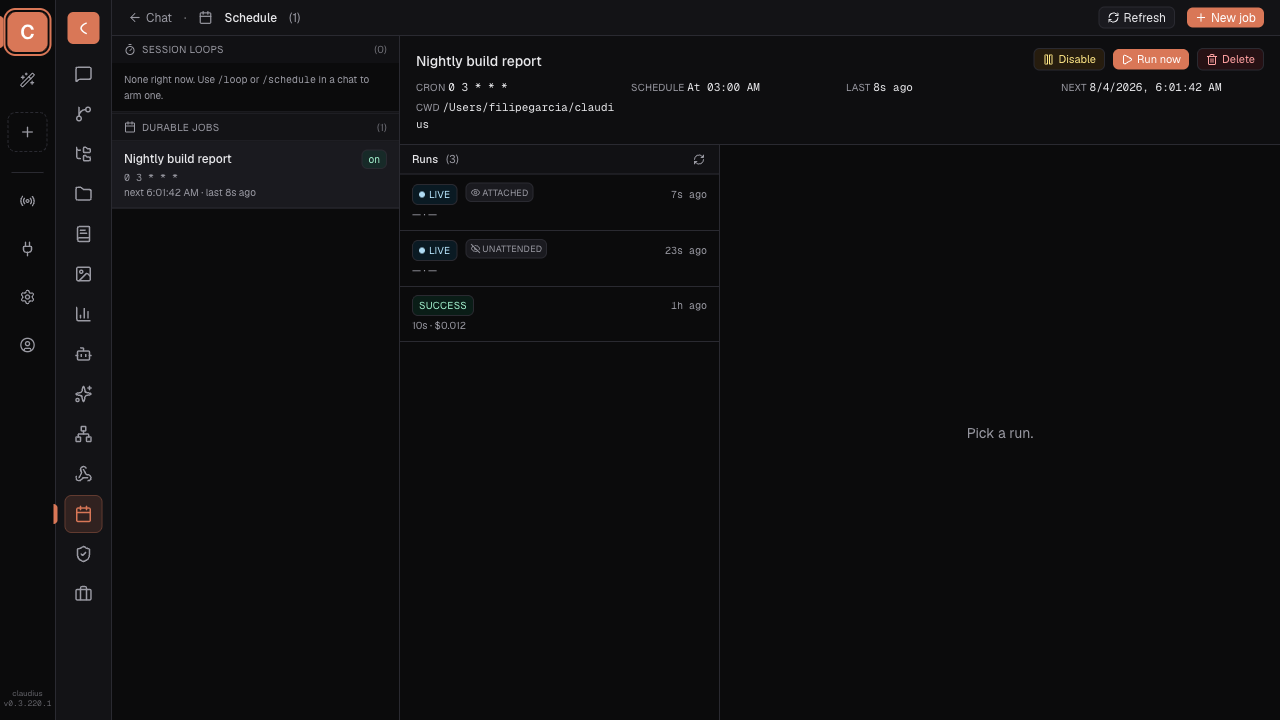
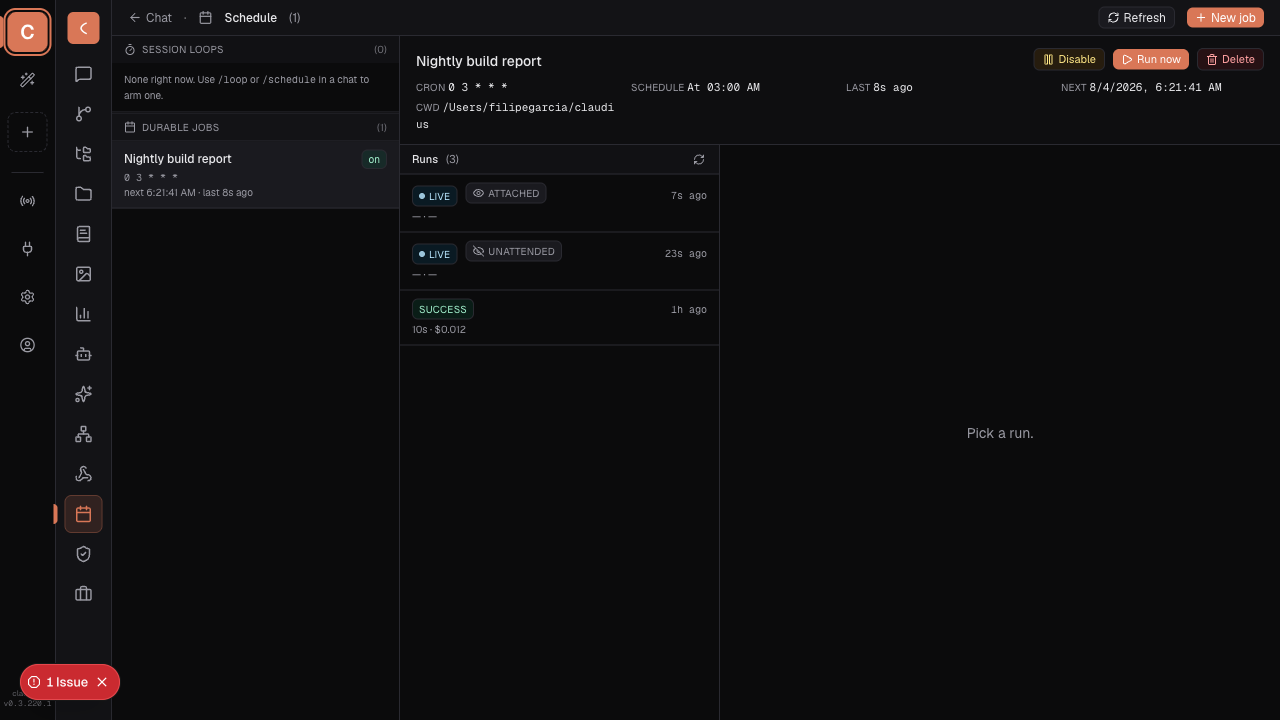
fix(cc-parity): apply adversarial UX review to 2.1.221 bucket-B items
Two independent skeptic passes on the just-shipped scheduler-attached
chip and emoji alias table:

- Emoji: drop the thumbs_up/thumbs_down aliases for already-canonical
  thumbsup/thumbsdown — filterEmojiShortcodes has no de-dup pass, so
  ":thumbs" would've surfaced two rows per emoji. Keep only love→heart,
  which the changelog actually needed.
- Schedule: drop the run-detail "Kind" stat — it was self-referential
  (opening the pane is what makes a run "attached"), so it briefly read
  "unattended" while you're looking straight at it. Keep the
  attached/unattended signal only in the runs-list chip, where another
  tab's attachment is real information. Also fixed the chip's sizing to
  match the adjacent "Live" pill's weight.

Updates the run-notes and both specs/screenshots to match.

diff --git a/app/[workspaceId]/schedule/page.tsx b/app/[workspaceId]/schedule/page.tsx
@@ -589,9 +589,9 @@ function JobDetail({
                                 ? "Attached — a tab has this run's live stream open"
                                 : "Unattended — running with no live viewer"
                             }
-                            className="flex shrink-0 items-center gap-0.5 rounded-md border border-[var(--border)] bg-[var(--panel-2)] px-1 py-0.5 text-[9px] uppercase tracking-wide text-[var(--muted)]"
+                            className="flex shrink-0 items-center gap-1 rounded-md border border-[var(--border)] bg-[var(--panel-2)] px-1.5 py-0.5 text-[10px] uppercase tracking-wide text-[var(--muted)]"
                           >
-                            {r.attached ? <Eye className="h-2.5 w-2.5" /> : <EyeOff className="h-2.5 w-2.5" />}
+                            {r.attached ? <Eye className="h-3 w-3" /> : <EyeOff className="h-3 w-3" />}
                             {r.attached ? "attached" : "unattended"}
                           </span>
                         )}
@@ -690,13 +690,20 @@ function RunTranscript({
   const transcript = run.status === "running" ? liveEvents : (run.transcript ?? []);
   return (
     <div className="space-y-2 px-4 py-4 text-xs">
+      {/*
+        Deliberately NOT repeating the attached/unattended chip here as a
+        "Kind" stat: opening this transcript is itself what makes a run
+        "attached" (it mounts the live EventSource below), so a stat in this
+        exact pane would read as self-referential/paradoxical — "unattended"
+        while you're looking straight at it, correcting itself only on the
+        next 2s runs-list poll. The runs-list chip (where a genuinely
+        *other* tab's attachment is real information) is the right home for
+        this; see the adversarial UX review in the 2.1.221 run-notes.
+      */}
       <div className="flex flex-wrap gap-3 border-b border-[var(--border)] pb-2">
         <Stat label="Started" value={new Date(run.startedAt).toLocaleString()} />
         {run.endedAt && <Stat label="Ended" value={new Date(run.endedAt).toLocaleString()} />}
         <Stat label="Status" value={run.status} />
-        {run.status === "running" && (
-          <Stat label="Kind" value={run.attached ? "background · attached" : "background · unattended"} />
-        )}
         {run.costUsd != null && <Stat label="Cost" value={fmtUsd(run.costUsd)} />}
         {typeof run.inputTokens === "number" && (
           <Stat label="In tok" value={run.inputTokens.toLocaleString()} />

diff --git a/tests/e2e/cc-parity-2.1.221-schedule-run-attached.spec.ts b/tests/e2e/cc-parity-2.1.221-schedule-run-attached.spec.ts
@@ -14,8 +14,10 @@
  * states without spinning up a real SDK run, and asserts:
  *   1. the runs list shows an "attached" chip for a live run with a
  *      watcher, and an "unattended" chip for one with none,
- *   2. opening the unattended run's transcript shows "background ·
- *      unattended" in its stat row.
+ *   2. opening a run's transcript does NOT repeat that signal as a stat —
+ *      an adversarial UX review flagged the original "Kind" stat as
+ *      self-referential (opening the pane is what makes a run "attached"),
+ *      so the chip only lives in the runs list.
  *
  * Screenshot target: docs/cc-parity/2.1.221/schedule-run-attached.png
  */
@@ -114,12 +116,16 @@ test.describe("CC 2.1.221 — Schedule run kind: attached vs unattended", () => 
     await page.waitForTimeout(150);
     await page.screenshot({ path: resolve(SHOTS_DIR, "schedule-run-attached.png"), fullPage: false });
 
-    // Open the unattended run's detail and confirm the stat row agrees.
+    // Open the unattended run's detail pane. The attached/unattended signal
+    // is deliberately NOT repeated here as a stat: opening this very pane is
+    // what makes a run "attached" (it mounts the live stream), so restating
+    // it in the pane you're looking through would be self-referential. Only
+    // the runs-list chip (where a genuinely *other* tab's attachment is real
+    // information) shows it — see the "Kind" removal note in
+    // RunTranscript's JSDoc.
     await page.getByText(/unattended/i).first().click();
-    await expect(page.getByText("background · unattended")).toBeVisible();
-
-    // Switch to the attached run and confirm the stat row flips too.
-    await page.getByText(/attached/i).first().click();
-    await expect(page.getByText("background · attached")).toBeVisible();
+    await expect(page.getByText(/^Started$/)).toBeVisible();
+    await expect(page.getByText("running", { exact: true })).toBeVisible();
+    await expect(page.getByText(/background/i)).toHaveCount(0);
   });
 });

diff --git a/tests/unit/emoji-shortcodes.test.ts b/tests/unit/emoji-shortcodes.test.ts
@@ -122,10 +122,19 @@ describe("EMOJI_ALIASES", () => {
     expect(out.some((o) => o.name === "love" && o.emoji === EMOJI_SHORTCODES.heart)).toBe(true);
   });
 
-  test("thumbsup/thumbsdown already exist as canonical names (not just aliases)", () => {
+  test("thumbsup/thumbsdown already exist as canonical names — no alias needed", () => {
     expect(lookupEmojiShortcode("thumbsup")).toBe(EMOJI_SHORTCODES.thumbsup);
     expect(lookupEmojiShortcode("thumbsdown")).toBe(EMOJI_SHORTCODES.thumbsdown);
-    expect(lookupEmojiShortcode("thumbs_up")).toBe(EMOJI_SHORTCODES.thumbsup);
-    expect(lookupEmojiShortcode("thumbs_down")).toBe(EMOJI_SHORTCODES.thumbsdown);
+  });
+
+  test("does NOT alias thumbs_up/thumbs_down — would duplicate rows in the picker for the same emoji", () => {
+    // filterEmojiShortcodes has no de-dup pass, so an underscore alias for an
+    // already-canonical name would surface two rows resolving to the same
+    // emoji for the natural query ":thumbs". See the EMOJI_ALIASES doc
+    // comment for the full rationale.
+    expect(EMOJI_ALIASES.thumbs_up).toBeUndefined();
+    expect(EMOJI_ALIASES.thumbs_down).toBeUndefined();
+    expect(filterEmojiShortcodes("thumbs").filter((o) => o.emoji === EMOJI_SHORTCODES.thumbsup)).toHaveLength(1);
+    expect(filterEmojiShortcodes("thumbs").filter((o) => o.emoji === EMOJI_SHORTCODES.thumbsdown)).toHaveLength(1);
   });
 });

diff --git a/lib/shared/emoji-shortcodes.ts b/lib/shared/emoji-shortcodes.ts
@@ -208,11 +208,17 @@ export const EMOJI_SHORTCODES: Record<string, string> = {
  * map exists so future alternates can be added as one-line aliases instead
  * of duplicate table entries. Every value must be a valid lowercase key of
  * `EMOJI_SHORTCODES`.
+ *
+ * Deliberately NOT adding `thumbs_up`/`thumbs_down` aliases for the already-
+ * canonical `thumbsup`/`thumbsdown`: `filterEmojiShortcodes("thumbs")` would
+ * surface both spellings as separate rows resolving to the same emoji
+ * (`EmojiShortcodePicker` has no de-dup pass), which is exactly the
+ * cluttered-picker outcome this table's "curated, not exhaustive" doc
+ * comment above warns against — and the changelog entry only asked for
+ * `thumbsup`/`thumbsdown` to be *accepted*, which they already are.
  */
 export const EMOJI_ALIASES: Record<string, string> = {
   love: "heart",
-  thumbs_up: "thumbsup",
-  thumbs_down: "thumbsdown",
 };
 
 /** Max rows the emoji picker ever shows — matches `PICKER_LIMIT` in at-mention.ts. */

diff --git a/.claudius/cc-parity/run-notes/2.1.221.md b/.claudius/cc-parity/run-notes/2.1.221.md
@@ -59,8 +59,8 @@ instead).
 
 ## Implemented (bucket B)
 
-- `[extend: /schedule] "/status" session-kind parity — attached/unattended chip on live scheduler runs` — added `Scheduler.isRunAttached()` (`lib/server/scheduler.ts`, mirrors the existing `isRunLive`), stamped onto in-flight runs by `app/api/schedule/[id]/runs/route.ts`, and rendered as an "attached"/"unattended" chip (with `Eye`/`EyeOff` icons) next to the "Live" badge in the runs list, plus a "Kind" stat row in the run-detail transcript — both in `app/[workspaceId]/schedule/page.tsx`. Rejected alternative: extending `StatusOverlay.tsx` (the native `/status` overlay) directly — rejected because every Claudius chat session viewed in the browser is trivially "interactive" (you're always attached if you can see the page), so the overlay would show a constant, uninformative value; the Schedule page's scheduler runs are Claudius's only surface with a genuine attached/unattended distinction.
-- `[extend: chat composer] Emoji shortcode aliases (:love: → ❤, plus thumbs_up/thumbs_down underscore aliases)` — added an `EMOJI_ALIASES` table to `lib/shared/emoji-shortcodes.ts` and threaded it through `filterEmojiShortcodes`/`lookupEmojiShortcode`; no component changes needed since `EmojiShortcodePicker.tsx`/`PromptInput.tsx` already consume those two functions. Rejected alternative: a full alias-editing settings UI — overkill for a small curated list; matches the existing file's own stated philosophy ("a curated subset... not an exhaustive dump... add to it as needed").
+- `[extend: /schedule] "/status" session-kind parity — attached/unattended chip on live scheduler runs` — added `Scheduler.isRunAttached()` (`lib/server/scheduler.ts`, mirrors the existing `isRunLive`), stamped onto in-flight runs by `app/api/schedule/[id]/runs/route.ts`, and rendered as an "attached"/"unattended" chip (with `Eye`/`EyeOff` icons, reusing the same icon-as-viewer-signal convention `TabClaimBanner.tsx` already uses for "active in another tab") next to the "Live" badge in the runs list — `app/[workspaceId]/schedule/page.tsx`. An adversarial UX pass on the first cut caught two issues, both fixed: (1) the chip's sizing (`text-[9px]`/`px-1`) didn't match the adjacent "Live" pill's weight — bumped to match (`text-[10px]`/`px-1.5`); (2) the first cut also repeated the signal as a "Kind" stat in the run-detail transcript pane, which is self-referential — opening that pane is itself what makes a run "attached" (it mounts the live SSE stream), so the stat would read "unattended" for a beat while you're looking straight at it. Removed; the runs-list chip (where a genuinely *other* tab's attachment is real information) is the only place this signal lives now. Rejected alternative: extending `StatusOverlay.tsx` (the native `/status` overlay) directly — rejected because every Claudius chat session viewed in the browser is trivially "interactive" (you're always attached if you can see the page), so the overlay would show a constant, uninformative value; the Schedule page's scheduler runs are Claudius's only surface with a genuine attached/unattended distinction.
+- `[extend: chat composer] Emoji shortcode alias (:love: → ❤)` — added an `EMOJI_ALIASES` table to `lib/shared/emoji-shortcodes.ts` (currently just `love → heart`) and threaded it through `filterEmojiShortcodes`/`lookupEmojiShortcode`; no component changes needed since `EmojiShortcodePicker.tsx`/`PromptInput.tsx` already consume those two functions. Deliberately did NOT add `thumbs_up`/`thumbs_down` aliases for the already-canonical `thumbsup`/`thumbsdown` — an adversarial UX-fit pass caught that `filterEmojiShortcodes("thumbs")` would then surface two rows per emoji (`thumbsup` + `thumbs_up`) with no de-dup pass in the picker, which is exactly the clutter the table's own "curated, not exhaustive" doc comment warns against; the changelog only asked for those two to be *accepted*, which they already were. Rejected alternative: a full alias-editing settings UI — overkill for a one-entry table.
 
 ## New UI surfaces
 
@@ -69,7 +69,7 @@ instead).
 
 ## Tests
 
-- vitest: 6 new specs added to `tests/unit/emoji-shortcodes.test.ts` (`EMOJI_ALIASES` describe block: alias-target validity, `:love:`/`:heart:` equivalence, case-insensitivity, picker surfacing, thumbsup/thumbsdown canonical-vs-alias). 0 updated existing specs (backward compatible — all 21 prior assertions in that file still pass).
+- vitest: 6 new specs added to `tests/unit/emoji-shortcodes.test.ts` (`EMOJI_ALIASES` describe block: alias-target validity, `:love:`/`:heart:` equivalence, case-insensitivity, picker surfacing, thumbsup/thumbsdown canonical-vs-alias, and a regression test locking in that `thumbs_up`/`thumbs_down` are deliberately NOT aliased). 0 updated existing specs (backward compatible — all 21 prior assertions in that file still pass; 22 total after the addition).
 - playwright: 2 new specs (`cc-parity-2.1.221-schedule-run-attached.spec.ts`, `cc-parity-2.1.221-emoji-alias-shortcodes.spec.ts`, 3 test cases total). 0 updated existing specs.
 - Not covered: `Scheduler.isRunAttached()` itself has no dedicated vitest unit test — the scheduler module has zero existing unit tests (`fire()` invokes a real SDK `query()` call, making it awkward to unit-test in isolation without new test seams), so this follows the pre-existing pattern rather than introducing one-off scheduler test infrastructure. The Playwright spec covers the client-rendering half (given an `attached` value, the correct chip/label renders) but not the server-side subscriber-counting logic end-to-end.
 
@@ -80,3 +80,4 @@ instead).
 - `Gateway model field validation`: same shape — Anthropic's LLM Gateway is infrastructure Claudius doesn't operate or proxy through, so there's no Claudius-side action regardless of bucket.
 - `[VSCode] Focus view`: the conservative call was full skip (no VS Code host to extend). The maximal alternative — building an analogous "focus mode" that collapses tool-activity into a per-turn summary in Claudius's own chat view — is plausible future work but is a bigger, more speculative feature than this changelog line actually describes (a VS Code-specific chrome toggle), so it wasn't built here.
 - Stats-panel bucket-B item shipped no diff (already satisfied by existing `CostOverlay`/`ModelBreakdown` code) — worth a quick sanity check that those two components' cache-token figures are still accurate against a real session, since this run-notes conclusion was reached by reading the components rather than running a live comparison against the CLI's own Stats panel output.
+- Both bucket-B items went through an adversarial UX-fit review before finalizing (see git history: two follow-up commits). The emoji-alias reviewer caught real scope creep (`thumbs_up`/`thumbs_down` aliases would've cluttered the picker with duplicate rows for already-canonical names) — removed. The schedule reviewer confirmed the runs-list mapping itself but caught that the run-detail "Kind" stat was self-referential (you can only see it by opening the pane that makes it true) — removed, kept only the list chip. The reviewer also suggested, as optional follow-up (not implemented here — out of scope for this pass), adding a trivial "Session kind: interactive" row to `StatusOverlay.tsx` so the parity story is discoverable from `/status` itself, where a reviewer familiar with the CC changelog line would look first.
